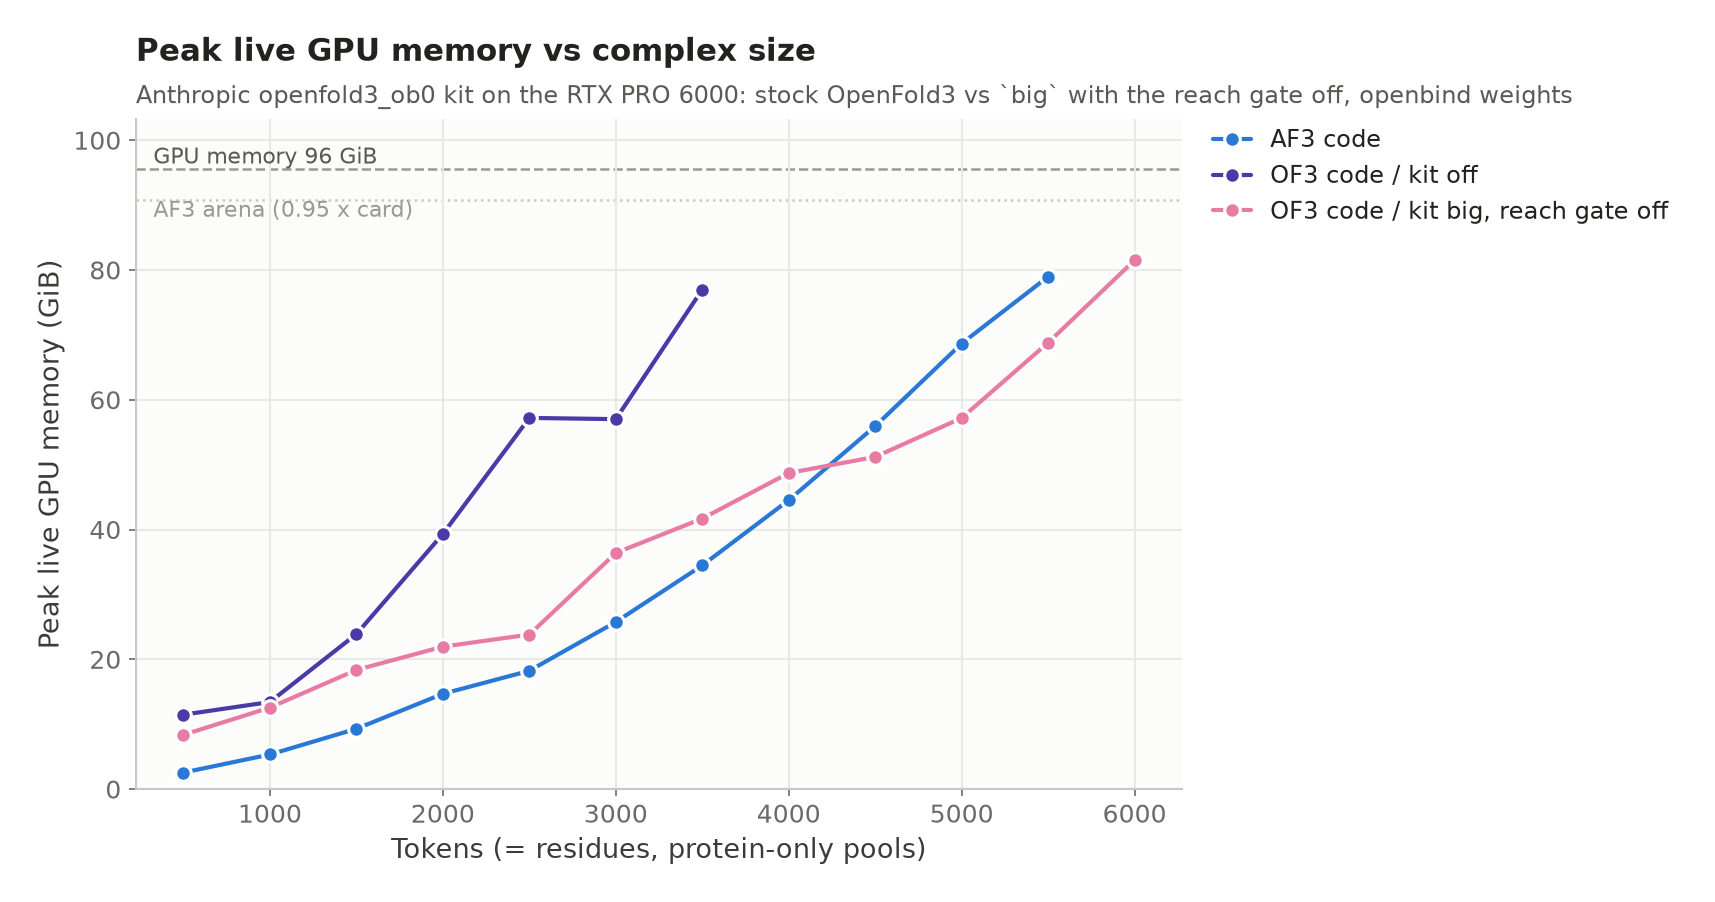
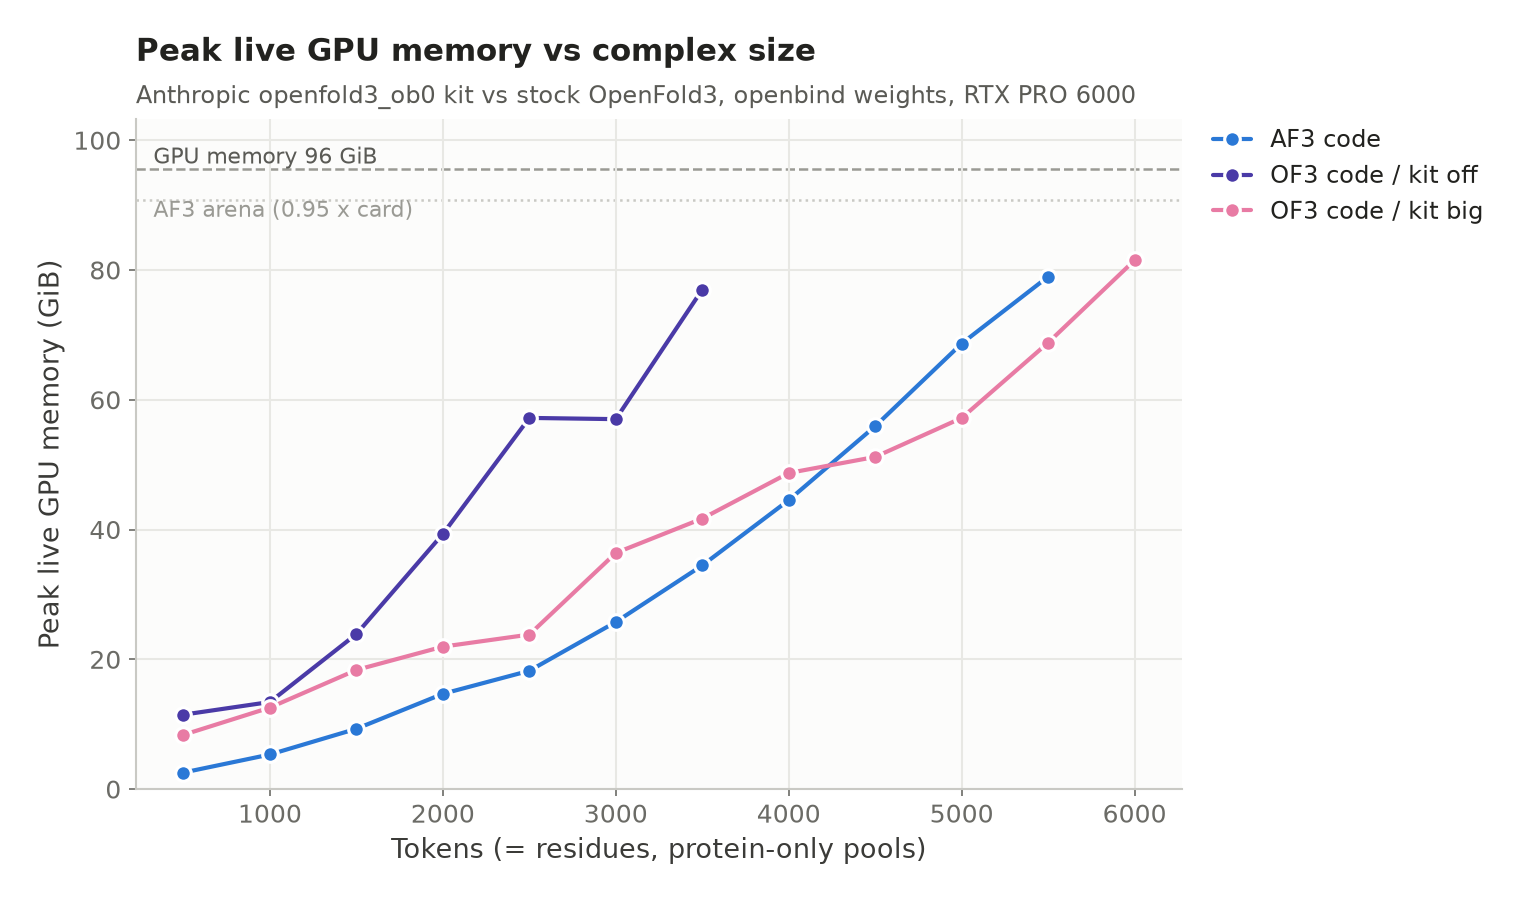
fix(configs): `big` means the gate held open; the gated arm is the one that says so
The reach gate at 4500 tokens is a table entry for 80 GB cards. On the 96 GiB card it
costs a 26x slower trunk for no reason, so holding it open is not a variant of `big`
here, it is `big` run correctly -- and naming it "kit big, reach gate off" in every
legend put the qualifier on the arm that needs none. The gate-off arm is now plain "kit
big", and of3kit_big_templateoff, which left the H100 value in place, carries "reach gate
at 4500". The arm directories and the config notes are unchanged: this is what a legend
says, not what ran.

The label now comes from this repository's config rather than the copy run_sweep.sh left
beside the table, which is on read-only storage and could not be relabelled without
re-running the sweep. Only `tag` moved: the axes a row is interpreted by still come from
the copy beside the data, so they cannot drift from what actually ran.

Claude-Session: https://claude.ai/code/session_01QdUaxutDW82zkGoioTgKCt

diff --git a/profiling/plot_vram.py b/profiling/plot_vram.py
@@ -120,15 +120,28 @@ def load_arm(sweep_dir: Path, name: str, style: dict) -> Arm | None:
     if not rows:
         print(f"  [WARN] {name}: {path} has no rows yet, skipping")
         return None
-    # run_sweep.sh copies the arm's config next to its table; its `tag` is the legend label.
-    tag = None
-    cfg_path = sweep_dir / name / "config.json"
-    if cfg_path.is_file():
-        try:
-            tag = json.load(open(cfg_path)).get("tag")
-        except (OSError, json.JSONDecodeError):
-            tag = None
-    return Arm(name, rows, tag, style)
+    return Arm(name, rows, arm_tag(sweep_dir, name), style)
+
+
+def arm_tag(sweep_dir: Path, name: str) -> str | None:
+    """The arm's short display label: this repository's config if it still has one, else
+    the copy run_sweep.sh left beside the table.
+
+    The two are read for different things on purpose. The axes a row is interpreted by
+    (engine, weights, use_templates) come from the copy beside the data, so they describe
+    what actually ran and cannot drift when the repository's configs move on. `tag` is
+    only what a legend says, and the repository owns it: renaming a series then costs a
+    re-plot instead of a re-run, and a sweep whose data lives on read-only storage can
+    still be relabelled."""
+    for path in (fl.REPO / "configs" / f"{name}.json", sweep_dir / name / "config.json"):
+        if path.is_file():
+            try:
+                tag = json.load(open(path)).get("tag")
+            except (OSError, json.JSONDecodeError):
+                continue
+            if tag:
+                return tag
+    return None
 
 
 def label_arms(arms: list[Arm]) -> None:

diff --git a/profiling/README.md b/profiling/README.md
@@ -277,11 +277,17 @@ pixi run plot-scaling --set af3kit_a100                  # the set's directory
 pixi run plot-scaling --set af3kit_a100 --no-individual  # without the per-arm directories
 ```
 
-Each arm's colour, marker and line style come from
+A legend entry is the arm config's `tag` as this repository has it now, minus any axis every
+arm in the figure agrees on (the weights, when they all run the same ones -- the title says so).
+Only the display label follows the repository; the axes a row is read by (engine, weights,
+templates) still come from the config copied beside the data at submit time, so they describe
+what actually ran. Renaming a series therefore costs a re-plot, not a re-run.
+
+Each arm's colour comes from
 [`configs/arm_style.json`](../configs/arm_style.json) and never change between figures, so
 the same curve is the same arm everywhere. Two arms in one figure may not share a colour;
-the plotting scripts refuse rather than draw them the same. Where two arms' curves coincide
-(`off` under `exact`, `big` under `big` with the reach gate off) the dashed one stays visible.
+the plotting scripts refuse rather than draw them the same. Colour is the only channel that
+varies: every series is drawn with the same marker and a solid line.
 
 The relative figure is the one a decision reads off: it answers "how much faster or slower than
 what we run today, at the sizes we run". Two things to keep in mind when reading it.
